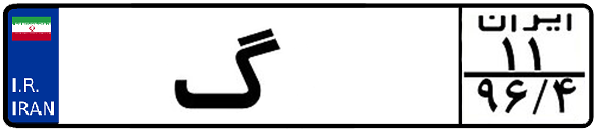
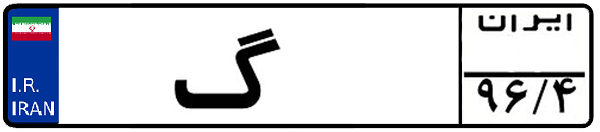
v1

Changed region(s): [[0.84, 0.2727, 0.9, 0.5455]]

diff --git a/ocr/Dataset/generated_plates/generate_plates.py b/ocr/Dataset/generated_plates/generate_plates.py
@@ -125,6 +125,9 @@ def load_glyphs(font,plate):
             res.append(Image.open(getGlyphAddress(font, g)).convert("RGBA"))
          else:
             res.append(Image.new("RGBA", (50, 100), (0, 0, 0, 0)))  # Create a transparent image if glyph doesn't exist
+    if "gaf" in plate :
+         res[-1] = res[-1].resize((res[-1].width//3, res[-1].height//3), PIL.Image.LANCZOS)
+         res[-2] = res[-2].resize((res[-2].width//3, res[-2].height//3), PIL.Image.LANCZOS)
     return res
 
 
@@ -143,15 +146,15 @@ def main():
     t = "..\\Templates\\"
     #defining cursor for each template type
     cursor = {
-        "dolati": {"x":65,"y":30,"s_2r":6, "s_3r":7, "s_l":32},
-        "gozar": {"x":65,"y":30,"s_2r":5, "s_3r":5, "s_l":30},
-        "nezami": {"x":73,"y":30,"s_2r":5, "s_3r":5, "s_l":27},
-        "malolin va janbazan": {"x":70,"y":32,"s_2r":6, "s_3r":7, "s_l":24},
-        "shakhsi": {"x":73,"y":30,"s_2r":5, "s_3r":6, "s_l":23},
-        "siasi": {"x":70,"y":30,"s_2r":5, "s_3r":8, "s_l":22},
-        "tranzit": {"x":50,"y":5,"s_2r":5, "s_3r":7, "s_l":19},
-        "tashrifat": {"x":332,"y":30,"s_2r":4, "s_3r":4, "s_l":-29},
-        "ommomi": {"x":65,"y":30,"s_2r":6, "s_3r":7, "s_l":30},
+        "dolati": {"x":65,"y":30,"s_2r":6, "s_3r":7, "s_l":32,"s_l2":47,"y2":30,"z_tel":-23},
+        "gozar": {"x":65,"y":30,"s_2r":5, "s_3r":5, "s_l":30,"s_l2":23,"y2":30,"z_tel":-15},
+        "nezami": {"x":73,"y":30,"s_2r":5, "s_3r":5, "s_l":27,"s_l2":47,"y2":30,"z_tel":-23},
+        "malolin va janbazan": {"x":70,"y":32,"s_2r":6, "s_3r":7, "s_l":24,"s_l2":47,"y2":30,"z_tel":-23},
+        "shakhsi": {"x":73,"y":30,"s_2r":5, "s_3r":5, "s_l":24,"s_l2":47,"y2":30,"z_tel":-23},
+        "siasi": {"x":70,"y":30,"s_2r":5, "s_3r":8, "s_l":22,"s_l2":47,"y2":30,"z_tel":-23},
+        "tranzit": {"x":50,"y":5,"s_2r":5, "s_3r":7, "s_l":19,"s_l2":47,"y2":5,"z_tel":-23},
+        "tashrifat": {"x":332,"y":30,"s_2r":4, "s_3r":4, "s_l":-29,"s_l2":47,"y2":30,"z_tel":-23},
+        "ommomi": {"x":65,"y":30,"s_2r":6, "s_3r":7, "s_l":30,"s_l2":47,"y2":30,"z_tel":-23},
     }
     whites = [
                 'template-dolati.png',
@@ -170,8 +173,6 @@ def main():
 
     for templates in os.listdir(t):
 
-        base = templates in ['shakhsi', 'malolin va janbazan', 'tranzit', 'ommomi', 'dolati','nezami','siasi']
-
         for template in os.listdir(t + templates):
             idCounter = 0
             white = template in whites
@@ -183,149 +184,149 @@ def main():
             # خواندن تمام گلیفها
             # اطمینان از وجود ۸ تصویر گلیف
             glyphImages = load_glyphs(font,plate)
-            if glyphImages[2] is not None:
+            # if glyphImages[2] is not None:
             # اگر پلاک جزو پلاکهای سفید است，
             # رنگ گلیفها را از سیاه به سفید تغییر بده
-                if white:
+            if white:
 
-                    whiteGlyphImages = []
+                whiteGlyphImages = []
 
-                    for glyph in glyphImages:
-                        # جدا کردن کانالهای RGBA
-                        r, g, b, a = glyph.split()
+                for glyph in glyphImages:
+                    # جدا کردن کانالهای RGBA
+                    r, g, b, a = glyph.split()
 
-                        # تبدیل رنگ کاراکتر از سیاه به سفید
-                        # کانال Alpha بدون تغییر باقی میماند
-                        whiteGlyph = Image.new(
-                            "RGBA",
-                            glyph.size,
-                            (255, 255, 255, 0)
-                        )
+                    # تبدیل رنگ کاراکتر از سیاه به سفید
+                    # کانال Alpha بدون تغییر باقی میماند
+                    whiteGlyph = Image.new(
+                        "RGBA",
+                        glyph.size,
+                        (255, 255, 255, 0)
+                    )
 
-                        whiteGlyph.putalpha(a)
+                    whiteGlyph.putalpha(a)
 
-                        whiteGlyphImages.append(whiteGlyph)
+                    whiteGlyphImages.append(whiteGlyph)
 
-                    glyphImages = whiteGlyphImages
+                glyphImages = whiteGlyphImages
 
-                print(templates, template,plateName)
+            print(templates, template,plateName)
 
-                newPlate = Image.new(
-                    'RGBA',
-                    (600, 132),
-                    (0, 0, 0, 0)
-                )
+            newPlate = Image.new(
+                'RGBA',
+                (600, 132),
+                (0, 0, 0, 0)
+            )
 
-                background = Image.open(
-                    f'{t}{templates}\\{template}'
-                ).convert("RGBA")
+            background = Image.open(
+                f'{t}{templates}\\{template}'
+            ).convert("RGBA")
 
-                newPlate.paste(background, (0, 0))
+            newPlate.paste(background, (0, 0))
 
-                x_cursor = cursor[templates]["x"]
-                y_cursor = cursor[templates]["y"]
+            x_cursor = cursor[templates]["x"]
+            y_cursor = cursor[templates]["y"]
 
-                s_2r = cursor[templates]["s_2r"]
-                s_3r = cursor[templates]["s_3r"]
-                s_l = cursor[templates]["s_l"]
+            s_2r = cursor[templates]["s_2r"]
+            s_3r = cursor[templates]["s_3r"]
+            s_l = cursor[templates]["s_l"]
+            s_l2 = cursor[templates]["s_l2"]
+            z_tel = cursor[templates]["z_tel"]
+            newPlate.paste(
+                glyphImages[0],
+                (x_cursor, y_cursor),
+                mask=glyphImages[0]
+            )
+
+            x_cursor += 50 + s_2r
+
+            # print(x_cursor)
+
+            newPlate.paste(
+                glyphImages[1],
+                (x_cursor, y_cursor),
+                mask=glyphImages[1]
+            )
+
+            x_cursor += 45 + s_l  # فاصله تا حرف
+
+            # print(x_cursor)
+
+            # ۲. بخش حرف وسط
+            if templates != 'malolin va janbazan':
 
                 newPlate.paste(
-                    glyphImages[0],
-                    (x_cursor, y_cursor),
-                    mask=glyphImages[0]
+                    glyphImages[2],
+                    (x_cursor, y_cursor + 3),
+                    mask=glyphImages[2]
                 )
 
-                x_cursor += 50 + s_2r
+            x_cursor += 65 + s_l  # فاصله تا ۳ رقم راست
+
+            # print("size", glyphImages[2].size[0])
+
+            for idx in [3, 4, 5]:
+
+                newPlate.paste(
+                    glyphImages[idx],
+                    (x_cursor, y_cursor),
+                    mask=glyphImages[idx]
+                )
+
+                x_cursor += 50 + s_3r
 
                 # print(x_cursor)
 
-                newPlate.paste(
-                    glyphImages[1],
-                    (x_cursor, y_cursor),
-                    mask=glyphImages[1]
-                )
+            # ۴. بخش ۲ رقم کد شهر
+            # مختصات دقیق و ثابت کادر مربع سمت راست
 
-                x_cursor += 45 + s_l  # فاصله تا حرف
+            x_city_start = 480
+            if templates == 'gozar':
+                x_city_start = 500
+            newPlate.paste(
+                glyphImages[6],
+                (x_city_start, y_cursor + 5),
+                mask=glyphImages[6]
+            )
 
-                # print(x_cursor)
+            # print(plate[-1])
 
-                # ۲. بخش حرف وسط
-                if base and templates != 'malolin va janbazan':
+            if plate[-1] == 0:
 
-                    newPlate.paste(
-                        glyphImages[2],
-                        (x_cursor, y_cursor + 3),
-                        mask=glyphImages[2]
-                    )
+                # print(y_cursor)
+                y_cursor -= z_tel
 
-                x_cursor += 65 + s_l  # فاصله تا ۳ رقم راست
+            x_city_second = x_city_start + s_l2 + s_2r
 
-                # print("size", glyphImages[2].size[0])
+            newPlate.paste(
+                glyphImages[7],
+                (x_city_second, y_cursor + 5),
+                mask=glyphImages[7]
+            )
 
-                for idx in [3, 4, 5]:
+            # print(x_city_second)
 
-                    newPlate.paste(
-                        glyphImages[idx],
-                        (x_cursor, y_cursor),
-                        mask=glyphImages[idx]
-                    )
+            # Image.Image.show(newPlate)
+            # ذخیرهسازی پلاک اصلی
+            if not os.path.exists(f"{font}/{plateName}"):
+                                    os.mkdir(f"{font}/{plateName}")
+            _newPlate = newPlate.resize((312, 70), PIL.Image.LANCZOS)
+            _newPlate.save(f"{font}/{plateName}/{idCounter}.png")
+            fontsProgBar.update(1)
 
-                    x_cursor += 50 + s_3r
-
-                    # print(x_cursor)
-
-                # ۴. بخش ۲ رقم کد شهر
-                # مختصات دقیق و ثابت کادر مربع سمت راست
-
-                if base:
-
-                    x_city_start = 480
-
-                    newPlate.paste(
-                        glyphImages[6],
-                        (x_city_start, y_cursor + 5),
-                        mask=glyphImages[6]
-                    )
-
-                    # print(plate[-1])
-
-                    if plate[-1] == 0:
-
-                        # print(y_cursor)
-                        y_cursor -= -23
-
-                    x_city_second = x_city_start + 47 + s_2r
-
-                    newPlate.paste(
-                        glyphImages[7],
-                        (x_city_second, y_cursor + 5),
-                        mask=glyphImages[7]
-                    )
-
-                    # print(x_city_second)
-
-                # Image.Image.show(newPlate)
-                # ذخیرهسازی پلاک اصلی
-                if not os.path.exists(f"{font}/{plateName}"):
-                                        os.mkdir(f"{font}/{plateName}")
-                _newPlate = newPlate.resize((312, 70), PIL.Image.LANCZOS)
-                _newPlate.save(f"{font}/{plateName}/{idCounter}.png")
+            # اعمال نویز
+            noisyTemplates = applyNoise(newPlate)
+            for noisyTemplate in noisyTemplates:
+                idCounter += 1
+                _noisyTemplate = noisyTemplate.resize((312, 70), PIL.Image.LANCZOS)
+                _noisyTemplate.save(f"{font}/{plateName}/{idCounter}.png")
                 fontsProgBar.update(1)
 
-                # اعمال نویز
-                noisyTemplates = applyNoise(newPlate)
-                for noisyTemplate in noisyTemplates:
+                # اعمال ترانسفورمها
+                transformedTemplates = applyTransforms(noisyTemplate)
+                for transformedTemplate in transformedTemplates:
                     idCounter += 1
-                    _noisyTemplate = noisyTemplate.resize((312, 70), PIL.Image.LANCZOS)
-                    _noisyTemplate.save(f"{font}/{plateName}/{idCounter}.png")
+                    _transformedTemplate = transformedTemplate.resize((312, 70), PIL.Image.LANCZOS)
+                    _transformedTemplate.save(f"{font}/{plateName}/{idCounter}.png")
                     fontsProgBar.update(1)
-
-                    # اعمال ترانسفورمها
-                    transformedTemplates = applyTransforms(noisyTemplate)
-                    for transformedTemplate in transformedTemplates:
-                        idCounter += 1
-                        _transformedTemplate = transformedTemplate.resize((312, 70), PIL.Image.LANCZOS)
-                        _transformedTemplate.save(f"{font}/{plateName}/{idCounter}.png")
-                        fontsProgBar.update(1)
 main()
 fontsProgBar.close()
